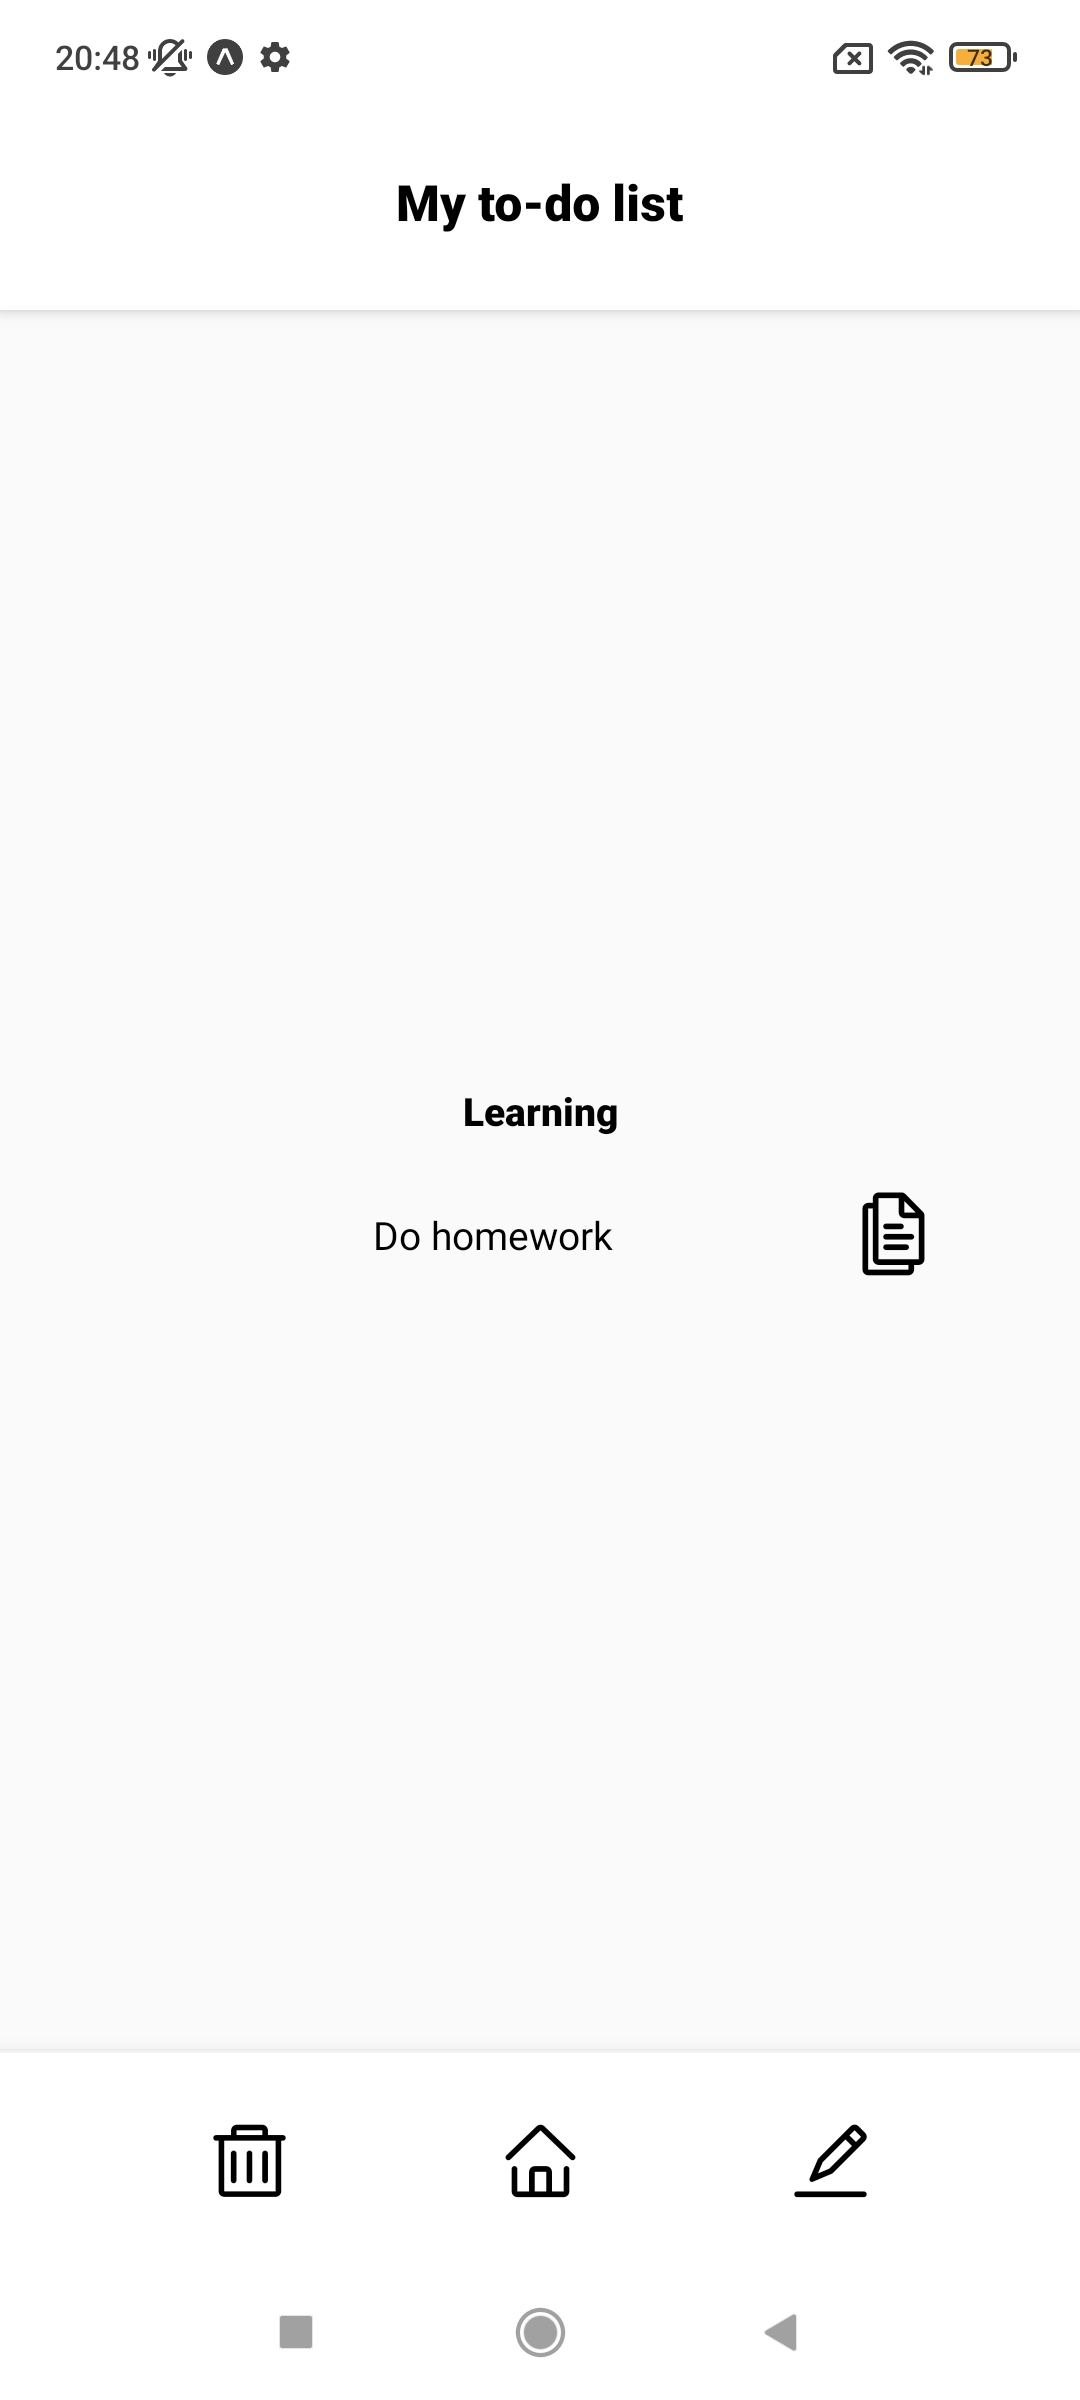
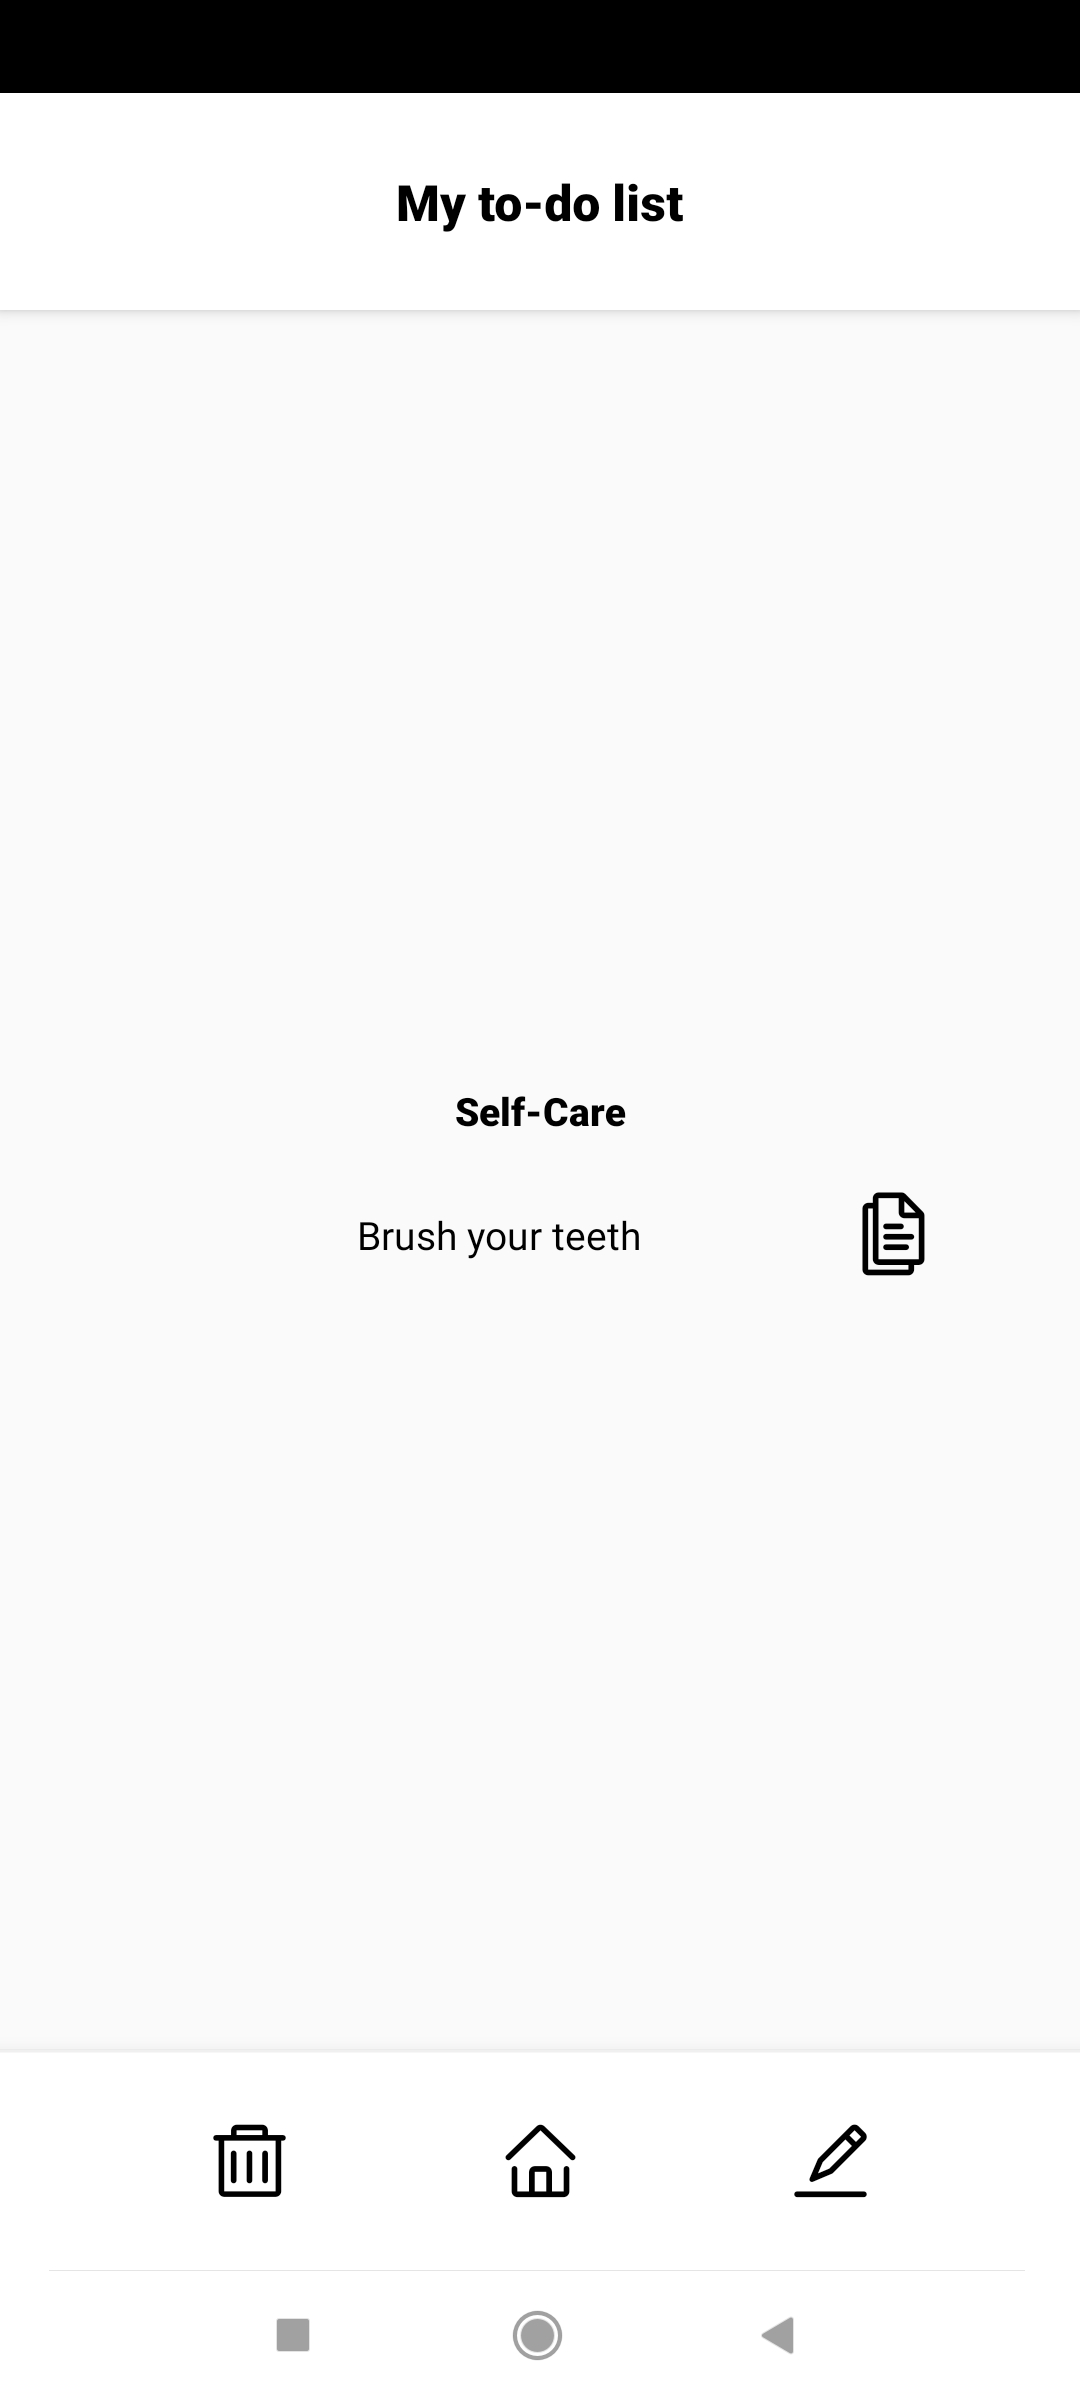
new screenschots

diff --git a/src/context/GlobalStateProvider.js b/src/context/GlobalStateProvider.js
@@ -5,7 +5,16 @@ export const GlobalStateContext = createContext();
 
 // Utwórz provider
 export const GlobalStateProvider = ({ children }) => {
-  const [toDoList, setToDoList] = useState([{ id: 1, task: 'Brush your teeth', category: 'Self-Care' }]);
+  const [toDoList, setToDoList] = useState([
+    { id: 1, task: 'Brush your teeth', category: 'Self-Care' },
+    { id: 2, task: 'Go for a run', category: 'Health' },
+    { id: 3, task: 'Clean the kitchen', category: 'Household' },
+    { id: 4, task: 'Read a book', category: 'Learning' },
+    { id: 5, task: 'Watch a movie', category: 'Leisure' },
+    { id: 6, task: 'Buy groceries', category: 'Shopping' },
+    { id: 7, task: 'Call a friend', category: 'Social' },
+    { id: 8, task: 'Finish project report', category: 'Work' },
+    { id: 9, task: 'Meditate for 10 minutes', category: 'Self-Care' } ]);
   const [task, setTask] = useState('');
   const [category, setCategory] = useState('');
   const [chosenTask, setChosenTask] = useState('');

diff --git a/App.js b/App.js
@@ -33,7 +33,7 @@ export default function App() {
   return (
     <GlobalStateProvider>
       <NavigationContainer>
-        <StatusBar backgroundColor="transparent" barStyle= "dark-content"  />
+        <StatusBar hidden  />
           <Stack.Navigator>
 
           <Stack.Screen name="Home" options={{ headerShown: false }} component={Home} />
